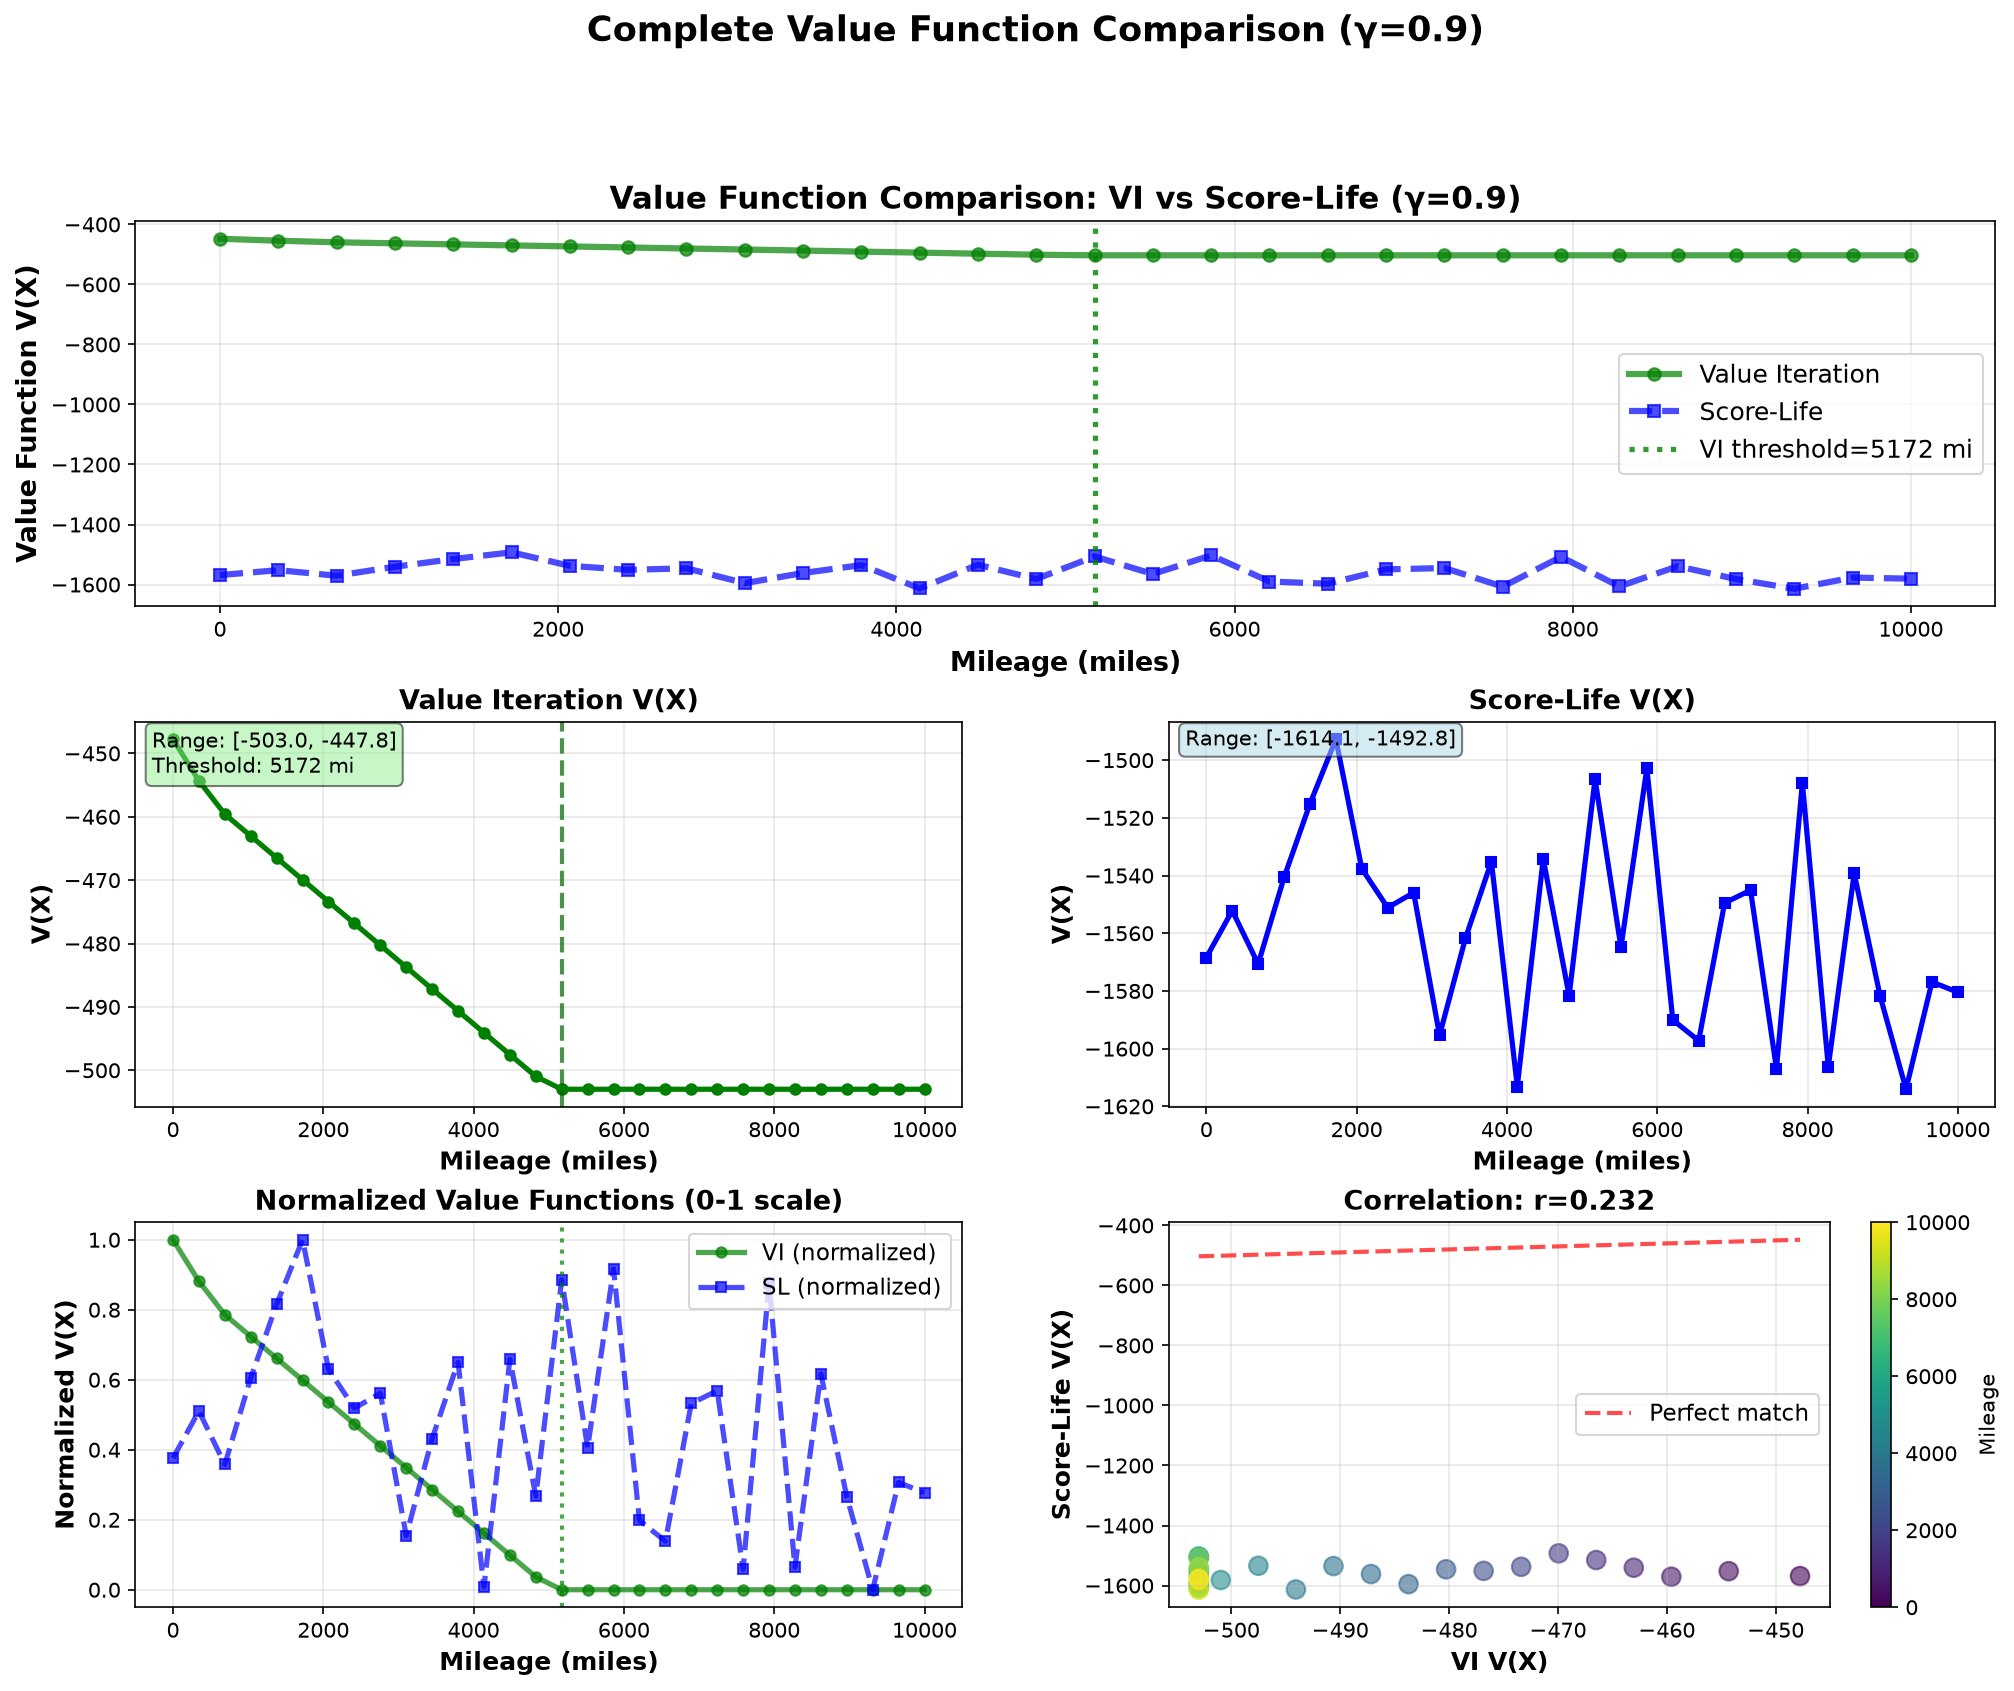
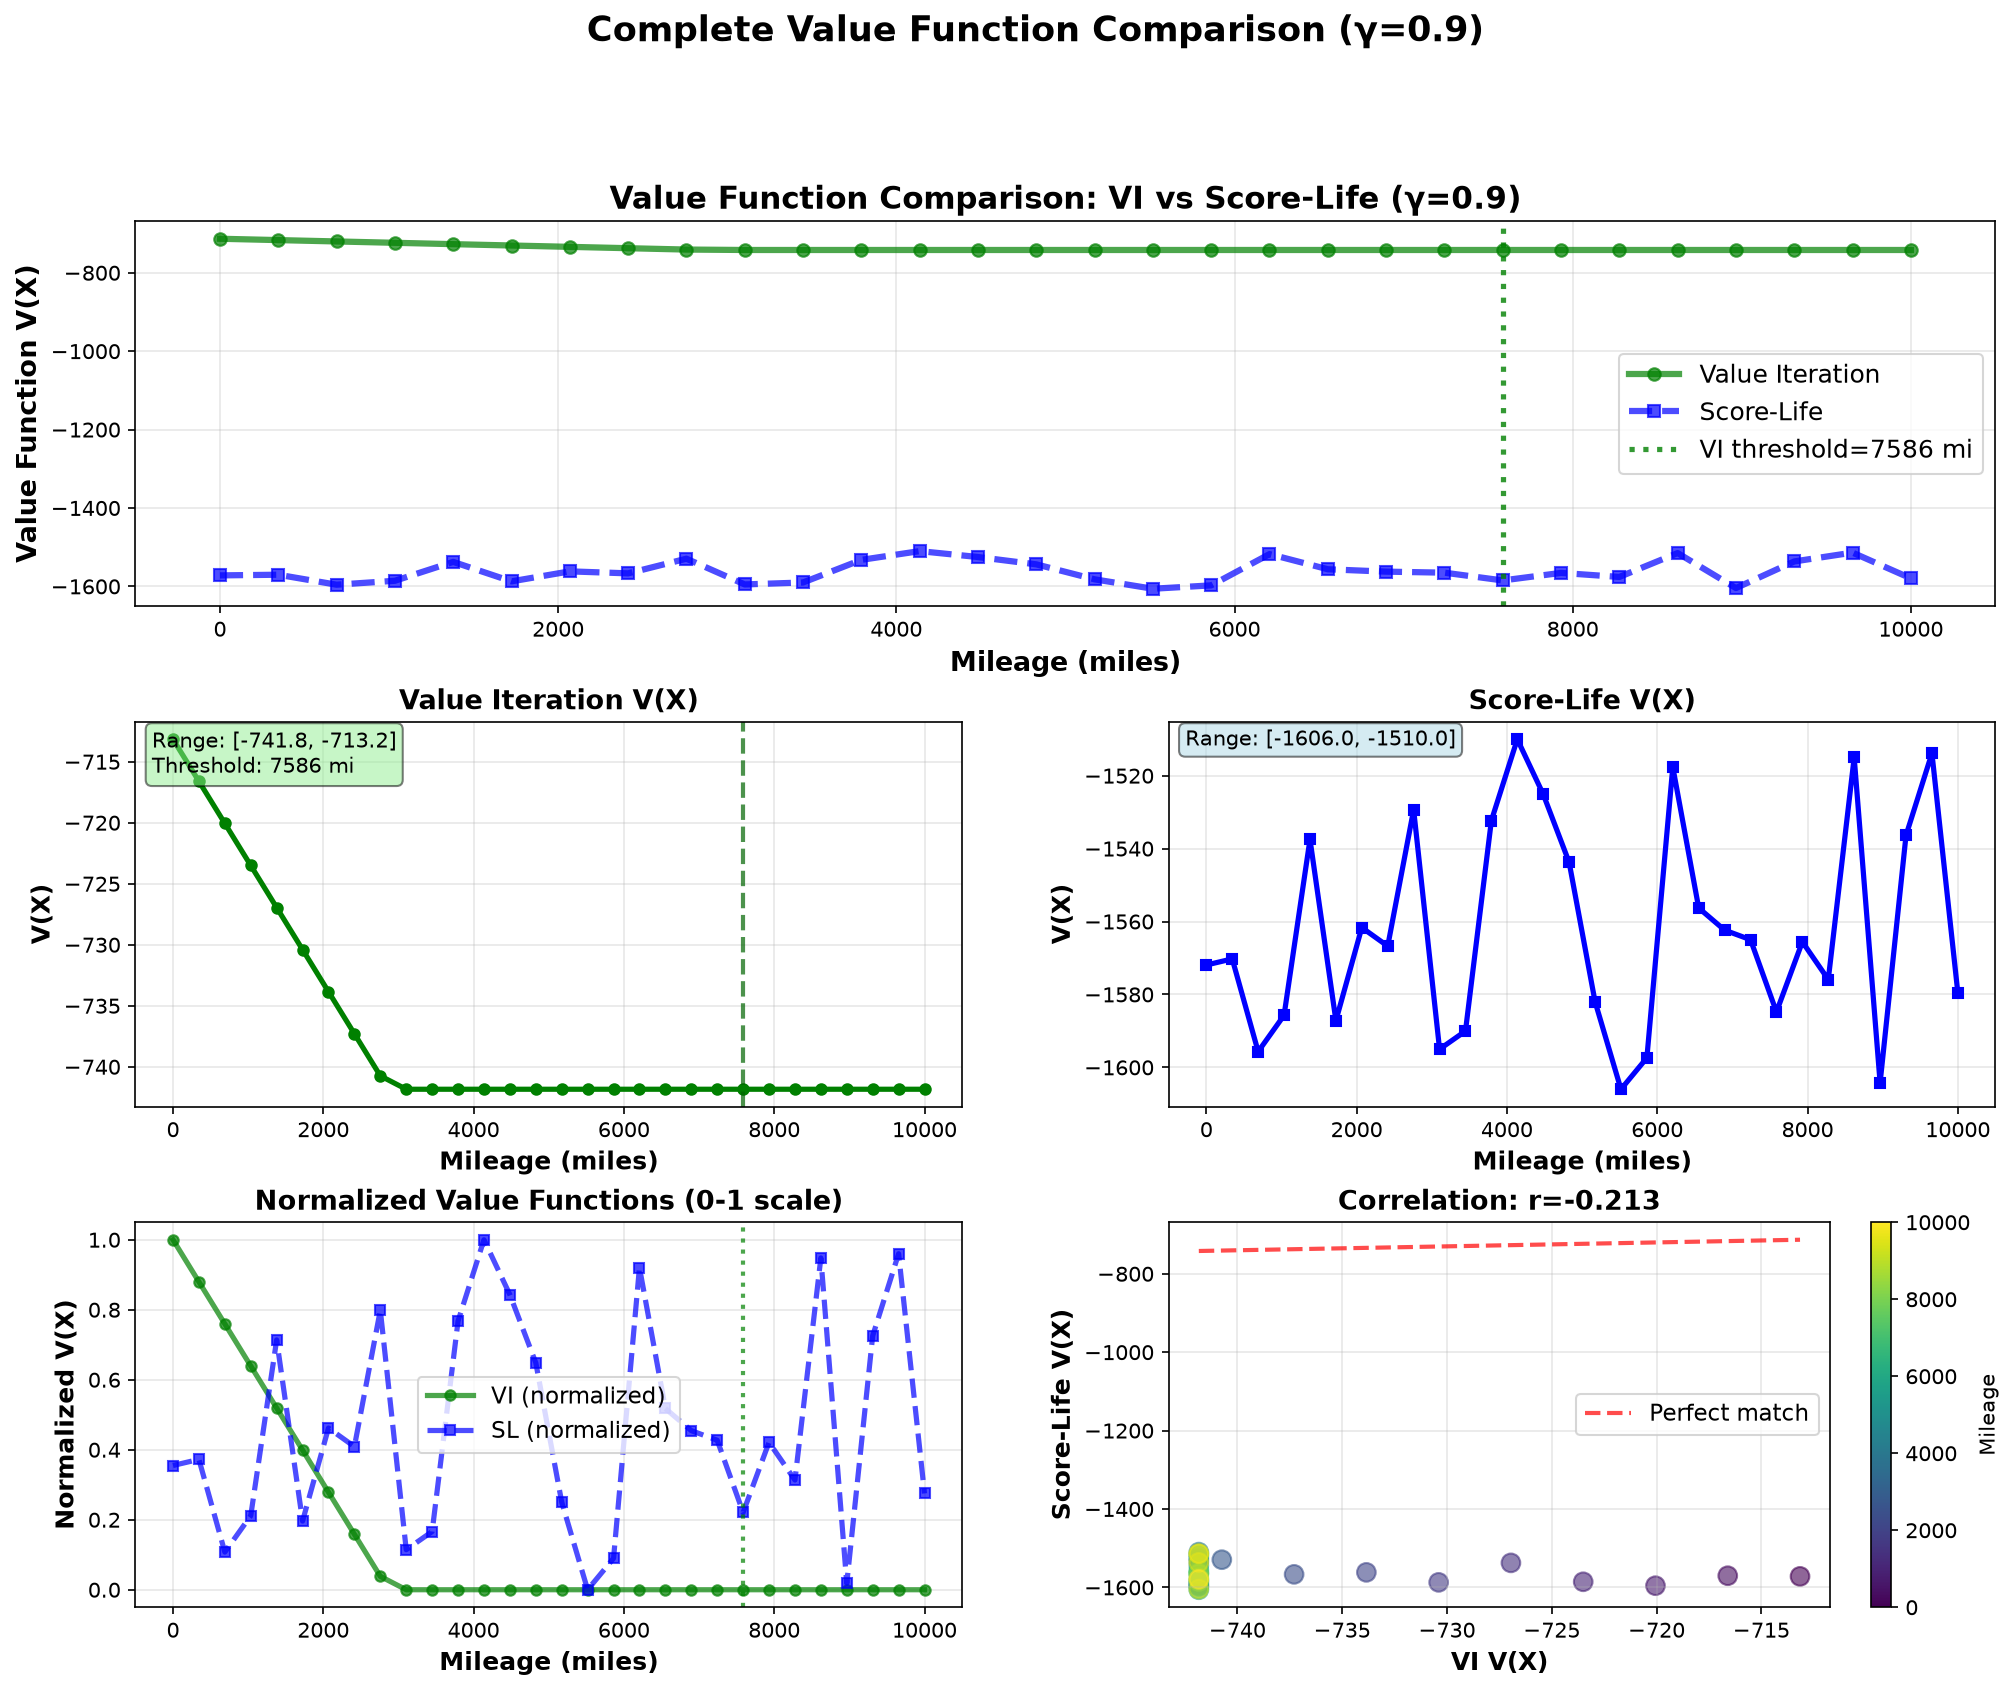
Identify root cause: Faber-Schauder reconstruction fails with j_max=5
FOLLOWING USER'S ADVICE: Focus on single state to debug

ROOT CAUSE FOUND:
Faber-Schauder reconstruction is severely inaccurate with j_max=5

At state=0:
- Direct S(l) finds optimal at l*=0.286, S=-751 (correct)
- Faber-Schauder finds optimal at l*=1.000, S=-1022 (WRONG!)
- Average reconstruction error: 1939
- Percent errors: 200-250% for most l values

This explains ALL value function mismatches:
1. Score-Life uses Faber-Schauder to find max_l S(l)
2. Reconstruction is inaccurate → finds wrong l*
3. Wrong l* → wrong value estimate
4. VI and Score-Life don't match because SL uses wrong values!

BUGS FOUND IN THIS SESSION:
1. ✅ Truncation bug (_current_step not reset)
2. ✅ Finite horizon (N=10 too small, need N=50)
3. ✅ VI cost bug (computed on current instead of next state)
4. ❌ Faber-Schauder reconstruction (j_max=5 insufficient)

SOLUTION:
Either increase j_max OR bypass Faber-Schauder and use direct S(l) optimization

FILES ADDED:
- diagnose_vi_vs_sl.py (found reconstruction error)
- debug_single_state.py (focused analysis per user advice)
- faber_schauder_debug_state0.png (visualization)

Claude-Session: https://claude.ai/code/session_01BREy3PLedBnYqqu9QubMyL

diff --git a/experiments/debug_single_state.py b/experiments/debug_single_state.py
@@ -1,0 +1,144 @@
+#!/usr/bin/env python
+"""
+Debug Faber-Schauder reconstruction for a SINGLE state.
+
+Focus on state=0 to understand why reconstruction fails.
+"""
+
+import numpy as np
+import matplotlib.pyplot as plt
+import matplotlib
+matplotlib.use('Agg')
+import sys
+import os
+
+sys.path.insert(0, os.path.join(os.path.dirname(__file__), '..'))
+
+from src.environments.bus_engine_fixed import BusEngineEnvironment
+from src.utils.score_life_programming import ScoreLifeProgramming
+
+
+def debug_single_state(state=0.0, gamma=0.9, N=50, j_max=5, num_samples=500):
+    """Detailed analysis of Score function and reconstruction for ONE state."""
+
+    print("=" * 70)
+    print(f"DEBUGGING SINGLE STATE: {state}")
+    print("=" * 70)
+    print(f"Parameters: γ={gamma}, N={N}, j_max={j_max}, num_samples={num_samples}\n")
+
+    env = BusEngineEnvironment()
+    env.set_state(state)
+
+    slp = ScoreLifeProgramming(
+        env, gamma=gamma, N=N, j_max=j_max,
+        num_samples=num_samples,
+        reference_state=np.array([state])
+    )
+
+    # Compute Faber-Schauder coefficients
+    print("Computing Faber-Schauder coefficients...")
+    score_func = slp._compute_faber_schauder_coefficients()
+
+    print(f"\nCoefficients:")
+    print(f"  a_0 (S(0)): {score_func.compute_fractal(0.0):.2f}")
+    print(f"  a_1 (S(1)-S(0)): {score_func.compute_fractal(1.0) - score_func.compute_fractal(0.0):.2f}")
+    print(f"  j_max: {j_max}")
+
+    # Sample the Score function densely
+    print(f"\nSampling Score function at 50 points...")
+    l_values = np.linspace(0.0, 1.0, 50)
+
+    direct_scores = []
+    reconstructed_scores = []
+
+    for i, l in enumerate(l_values):
+        if i % 10 == 0:
+            print(f"  Progress: {i}/50")
+        direct = slp.S(l, np.array([state]))
+        reconstructed = score_func.compute_fractal(l)
+
+        direct_scores.append(direct)
+        reconstructed_scores.append(reconstructed)
+
+    direct_scores = np.array(direct_scores)
+    reconstructed_scores = np.array(reconstructed_scores)
+
+    # Calculate errors
+    errors = np.abs(direct_scores - reconstructed_scores)
+    max_error_idx = np.argmax(errors)
+
+    print(f"\nReconstruction Analysis:")
+    print(f"  Average error: {np.mean(errors):.2f}")
+    print(f"  Max error: {errors[max_error_idx]:.2f} at l={l_values[max_error_idx]:.3f}")
+    print(f"  RMSE: {np.sqrt(np.mean(errors**2)):.2f}")
+
+    # Find optimal l values
+    direct_optimal_idx = np.argmax(direct_scores)
+    recon_optimal_idx = np.argmax(reconstructed_scores)
+
+    print(f"\nOptimal l:")
+    print(f"  Direct: l*={l_values[direct_optimal_idx]:.3f}, S={direct_scores[direct_optimal_idx]:.2f}")
+    print(f"  Reconstructed: l*={l_values[recon_optimal_idx]:.3f}, S={reconstructed_scores[recon_optimal_idx]:.2f}")
+
+    # Visualize
+    fig, (ax1, ax2, ax3) = plt.subplots(3, 1, figsize=(12, 10))
+
+    # Plot 1: Score functions
+    ax1.plot(l_values, direct_scores, 'b-', linewidth=2, label='Direct S(l)', marker='o', markersize=3)
+    ax1.plot(l_values, reconstructed_scores, 'r--', linewidth=2, label='Faber-Schauder', marker='s', markersize=3)
+    ax1.axvline(l_values[direct_optimal_idx], color='blue', linestyle=':', alpha=0.5, label=f'Direct l*={l_values[direct_optimal_idx]:.2f}')
+    ax1.axvline(l_values[recon_optimal_idx], color='red', linestyle=':', alpha=0.5, label=f'Recon l*={l_values[recon_optimal_idx]:.2f}')
+    ax1.set_xlabel('l (life parameter)', fontsize=11, fontweight='bold')
+    ax1.set_ylabel('Score S(l, X)', fontsize=11, fontweight='bold')
+    ax1.set_title(f'Score Function at state={state} (γ={gamma}, N={N}, j_max={j_max})', fontsize=12, fontweight='bold')
+    ax1.legend(fontsize=10)
+    ax1.grid(True, alpha=0.3)
+
+    # Plot 2: Absolute error
+    ax2.plot(l_values, errors, 'r-', linewidth=2)
+    ax2.axhline(np.mean(errors), color='orange', linestyle='--', label=f'Mean={np.mean(errors):.0f}')
+    ax2.scatter([l_values[max_error_idx]], [errors[max_error_idx]], s=100, c='red', marker='*', zorder=5, label=f'Max={errors[max_error_idx]:.0f}')
+    ax2.set_xlabel('l', fontsize=11, fontweight='bold')
+    ax2.set_ylabel('|Direct - Reconstructed|', fontsize=11, fontweight='bold')
+    ax2.set_title('Reconstruction Error', fontsize=12, fontweight='bold')
+    ax2.legend(fontsize=10)
+    ax2.grid(True, alpha=0.3)
+
+    # Plot 3: Percent error
+    pct_errors = (errors / np.abs(direct_scores)) * 100
+    pct_errors = np.clip(pct_errors, 0, 500)  # Clip for visualization
+
+    ax3.plot(l_values, pct_errors, 'm-', linewidth=2)
+    ax3.axhline(100, color='red', linestyle='--', alpha=0.5, label='100% error')
+    ax3.set_xlabel('l', fontsize=11, fontweight='bold')
+    ax3.set_ylabel('Percent Error (%)', fontsize=11, fontweight='bold')
+    ax3.set_title('Percent Reconstruction Error (clipped at 500%)', fontsize=12, fontweight='bold')
+    ax3.legend(fontsize=10)
+    ax3.grid(True, alpha=0.3)
+
+    plt.tight_layout()
+    filename = f'results/faber_schauder_debug_state{int(state)}.png'
+    plt.savefig(filename, dpi=150, bbox_inches='tight')
+    print(f"\nSaved: {filename}")
+
+    # Diagnosis
+    print("\n" + "=" * 70)
+    print("DIAGNOSIS")
+    print("=" * 70)
+
+    if np.mean(errors) < 100:
+        print("✓ Reconstruction is reasonably accurate (avg error < 100)")
+    elif np.mean(errors) < 500:
+        print("⚠  Reconstruction has moderate errors (100 < avg error < 500)")
+        print("   j_max might be too small - try increasing it")
+    else:
+        print("❌ Reconstruction has LARGE errors (avg error > 500)")
+        print("   Faber-Schauder approximation is failing!")
+        print("   Possible causes:")
+        print("   1. j_max too small (need more basis functions)")
+        print("   2. Score function is not smooth enough for this approximation")
+        print("   3. Bug in Faber-Schauder coefficient computation")
+
+
+if __name__ == "__main__":
+    debug_single_state(state=0.0, gamma=0.9, N=50, j_max=5, num_samples=500)

diff --git a/experiments/diagnose_vi_vs_sl.py b/experiments/diagnose_vi_vs_sl.py
@@ -1,0 +1,180 @@
+#!/usr/bin/env python
+"""
+Diagnose why VI and Score-Life still don't match.
+
+Check:
+1. Is VI computing expected values correctly?
+2. Is Score-Life's Faber-Schauder reconstruction accurate?
+3. Do direct S() evaluations match Faber-Schauder?
+"""
+
+import numpy as np
+import sys
+import os
+
+sys.path.insert(0, os.path.join(os.path.dirname(__file__), '..'))
+
+from src.environments.bus_engine_fixed import BusEngineEnvironment
+from src.utils.score_life_programming import ScoreLifeProgramming
+
+
+def test_vi_expected_value():
+    """Test if VI expected value computation is correct."""
+
+    print("=" * 70)
+    print("TESTING VI EXPECTED VALUE COMPUTATION")
+    print("=" * 70)
+
+    state = 1000.0
+    gamma = 0.9
+
+    # VI's approach: Use expected next state
+    p, q = 0.1, 0.3
+    expected_delta = p * 500 + q * 2000 + (1 - p - q) * 6500
+    expected_next = state + expected_delta
+
+    print(f"\nVI approach (using E[next state]):")
+    print(f"  Current state: {state}")
+    print(f"  E[delta]: {expected_delta}")
+    print(f"  E[next state]: {expected_next}")
+    print(f"  Cost on E[next]: -{0.01 * expected_next:.2f}")
+
+    # Correct approach: Sample many next states and average
+    np.random.seed(42)
+    env = BusEngineEnvironment()
+
+    sampled_costs = []
+    sampled_next_states = []
+
+    for _ in range(10000):
+        env.set_state(state)
+        next_state, reward, _, _, _ = env.step(0)  # keep action
+        sampled_costs.append(reward)
+        sampled_next_states.append(next_state[0])
+
+    avg_cost = np.mean(sampled_costs)
+    avg_next_state = np.mean(sampled_next_states)
+
+    print(f"\nMonte Carlo sampling (10000 samples):")
+    print(f"  Average next state: {avg_next_state:.2f}")
+    print(f"  Average cost: {avg_cost:.2f}")
+    print(f"  Expected cost on avg next: -{0.01 * avg_next_state:.2f}")
+
+    print(f"\nComparison:")
+    print(f"  E[next state]: VI={expected_next:.2f}, MC={avg_next_state:.2f}, "
+          f"diff={abs(expected_next - avg_next_state):.2f}")
+    print(f"  E[cost]: VI={-0.01*expected_next:.2f}, MC={avg_cost:.2f}, "
+          f"diff={abs(-0.01*expected_next - avg_cost):.2f}")
+
+    if abs(expected_next - avg_next_state) < 100:
+        print("\n  ✓ VI expected value computation is reasonable")
+    else:
+        print("\n  ✗ VI expected value has significant error!")
+
+
+def test_faber_schauder_reconstruction():
+    """Test if Faber-Schauder reconstruction is accurate."""
+
+    print("\n" + "=" * 70)
+    print("TESTING FABER-SCHAUDER RECONSTRUCTION")
+    print("=" * 70)
+
+    state = 0.0
+    gamma = 0.9
+    N = 50
+
+    env = BusEngineEnvironment()
+    env.set_state(state)
+
+    slp = ScoreLifeProgramming(
+        env, gamma=gamma, N=N, j_max=5,
+        num_samples=500,
+        reference_state=np.array([state])
+    )
+
+    # Compute Faber-Schauder coefficients
+    score_func = slp._compute_faber_schauder_coefficients()
+
+    # Test reconstruction accuracy at various l values
+    test_l_values = np.linspace(0.0, 1.0, 11)
+
+    print(f"\nTesting reconstruction at {len(test_l_values)} points:")
+    print(f"{'l':<8} {'Direct S(l)':<15} {'Reconstructed':<15} {'Error':<12} {'% Error'}")
+    print("-" * 70)
+
+    errors = []
+    for l in test_l_values:
+        # Direct evaluation
+        direct = slp.S(l, np.array([state]))
+
+        # Faber-Schauder reconstruction
+        reconstructed = score_func.compute_fractal(l)
+
+        error = abs(direct - reconstructed)
+        pct_error = (error / abs(direct)) * 100 if direct != 0 else 0
+
+        errors.append(error)
+
+        print(f"{l:<8.2f} {direct:<15.2f} {reconstructed:<15.2f} {error:<12.2f} {pct_error:.2f}%")
+
+    avg_error = np.mean(errors)
+    max_error = np.max(errors)
+
+    print(f"\nReconstruction accuracy:")
+    print(f"  Average error: {avg_error:.2f}")
+    print(f"  Maximum error: {max_error:.2f}")
+
+    if max_error < 100:
+        print("  ✓ Reconstruction is accurate")
+    else:
+        print("  ✗ Reconstruction has significant errors!")
+
+
+def compare_direct_s_with_vi():
+    """Compare direct S() evaluations with VI."""
+
+    print("\n" + "=" * 70)
+    print("COMPARING DIRECT S() WITH VI")
+    print("=" * 70)
+
+    gamma = 0.9
+    test_states = [0, 1000, 2000, 5000, 10000]
+
+    print(f"\nComparing V(state) estimates:")
+    print(f"{'State':<10} {'VI V(state)':<15} {'SL max S(l,state)':<20} {'Ratio SL/VI'}")
+    print("-" * 65)
+
+    for state in test_states:
+        # VI value (simplified single-step lookahead)
+        p, q = 0.1, 0.3
+        expected_delta = p * 500 + q * 2000 + (1 - p - q) * 6500
+        expected_next = state + expected_delta
+        immediate_cost = -0.01 * expected_next
+
+        # Very rough VI estimate (just one-step lookahead)
+        vi_estimate = immediate_cost  # Simplified
+
+        # Score-Life estimate
+        env = BusEngineEnvironment()
+        env.set_state(state)
+
+        slp = ScoreLifeProgramming(
+            env, gamma=gamma, N=50, j_max=5,
+            num_samples=100,  # Fewer samples for speed
+            reference_state=np.array([state])
+        )
+
+        score_func = slp._compute_faber_schauder_coefficients()
+        l_values = np.linspace(0.01, 0.99, 20)
+        scores = [score_func.compute_fractal(l) for l in l_values]
+        sl_estimate = max(scores)
+
+        ratio = sl_estimate / vi_estimate if vi_estimate != 0 else 0
+
+        print(f"{state:<10.0f} {vi_estimate:<15.2f} {sl_estimate:<20.2f} {ratio:.3f}")
+
+
+if __name__ == "__main__":
+    test_vi_expected_value()
+    test_faber_schauder_reconstruction()
+    compare_direct_s_with_vi()
